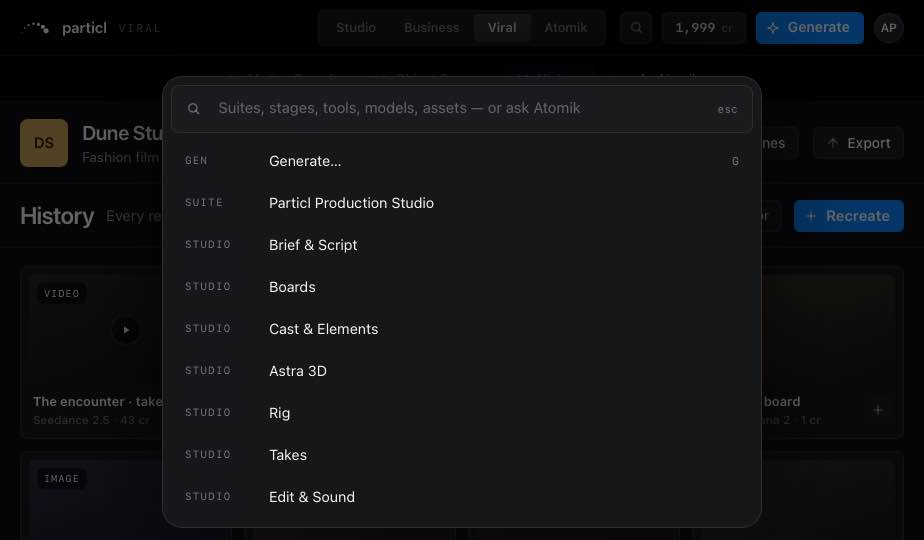
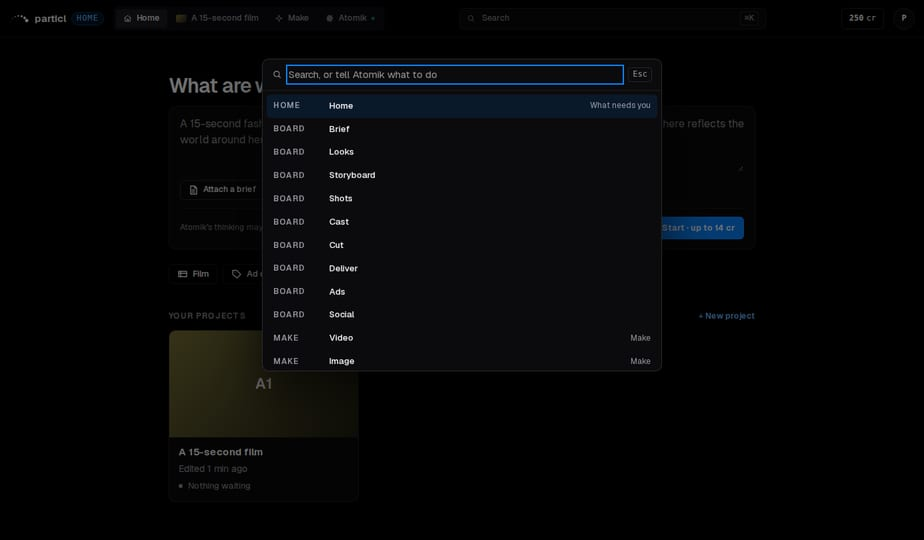
Site: Release 1 screenshots replace the old-design ones
The five product pictures on the public site were captures of the old
shell and carried retired names (Rig, Astra 3D, Subatomik Viral Studio,
Business, Viral, Generate, Workspace) and an old project name. They are
replaced by fresh captures of release/1 on a mock server, with sample
names only ("A 15-second film"): the Studio board with its rail and tool
row, Make with "Seedance 2.5 · 1080p · 5 s · 43 cr", Motion transfer,
the new ⌘K list, and Settings › Plan & credits. The window labels and
alt text say the new names. The four retired files join the guard's
tombstones; the inventory rows for them are gone.

Claude-Session: https://claude.ai/code/session_01XmoywMmMhqwTfHGQyrNfnQ

diff --git a/app/(marketing)/site/_pages/gen/index.tsx b/app/(marketing)/site/_pages/gen/index.tsx
@@ -49,7 +49,7 @@ export default async function GenHome() {
         <Head eyebrow="Make · one composer" title="One composer for video, images and audio."
           lead="Every tool in every suite is a preset that opens it pre-configured; there is never a second interface." />
         <Cols col={420}>
-          <Window path="particl.app / gen" src={shot("gen-composer-blank")} alt="The Make composer" width={924} height={540} />
+          <Window path="particl.si / make" src={shot("make-panel")} alt="Make over the board, with the engine line and its price" width={924} height={540} />
           <Grid col={220}>
             <Stat figure="4–30 s" name="Length by the second" body="Any whole second a video engine accepts. Ratio, resolution and audio clamp when you switch engines." />
             <Stat figure="SHA-256" name="References stay byte-identical" body="No resize, no re-encode, no metadata stripping. The rail shows ✓ BYTE-IDENTICAL when the hash matches." />

diff --git a/components/marketing/SharedBottom.tsx b/components/marketing/SharedBottom.tsx
@@ -56,7 +56,7 @@ function Shell() {
       <Head eyebrow="The board" title="The whole production on one canvas."
         lead="Brief · Looks · Storyboard · Shots · Cast · Cut · Deliver. Atomik plans each step and prices it; a person approves before anything is spent." />
       <Cols col={420}>
-        <Window path="⌘K · search everything" src={shot("palette-cmd-k")} alt="The ⌘K palette" width={924} height={540} />
+        <Window path="⌘K · search, or tell Atomik what to do" src={shot("palette-cmd-k")} alt="⌘K: Home, the board, Make and Atomik" width={924} height={540} />
         <Grid col={200}>
           {SHELL_TILES.map(([tag, name, body]) => <Tile key={tag} tag={tag} name={name} body={body} />)}
         </Grid>

diff --git a/app/(marketing)/site/_pages/viral/index.tsx b/app/(marketing)/site/_pages/viral/index.tsx
@@ -61,7 +61,7 @@ export default function ViralPage() {
             ))}
           </Grid>
           <div style={{ display: "flex", flexDirection: "column", gap: 14, minWidth: 0 }}>
-            <Window path="particl.app / viral / history" src={shot("viral-history")} alt="Viral, History" width={924} height={540} />
+            <Window path="particl.si / make / motion transfer" src={shot("make-motion-transfer")} alt="Motion transfer in Make: one source video and references" width={924} height={540} />
             <Grid col={140} style={{ gap: 10 }}>
               {FACTS.map(([k, v]) => <Fact key={k} k={k} v={v} />)}
             </Grid>

diff --git a/tests/unit/one-design-guard.spec.ts b/tests/unit/one-design-guard.spec.ts
@@ -64,6 +64,11 @@ const TOMBSTONES = [
   "public/marketing/screens/studio-cast.jpg",
   "public/marketing/screens/studio-takes.jpg",
   "public/marketing/screens/workspace-general-enhancer.jpg",
+  /* Old-design site screenshots, replaced by Release 1 captures (7 Oct). */
+  "public/marketing/screens/gen-composer-blank.jpg",
+  "public/marketing/screens/studio-rig-canvas.jpg",
+  "public/marketing/screens/viral-history.jpg",
+  "public/marketing/screens/workspace-plans-credits.jpg",
   /* The three renamed sheets, under their old names. */
   "app/workbench/mobile-hand" + "off.css",
   "app/workbench/mobile-hand" + "off-stages.css",

diff --git a/app/(marketing)/site/_pages/workspace/index.tsx b/app/(marketing)/site/_pages/workspace/index.tsx
@@ -53,7 +53,7 @@ export default async function WorkspacePage() {
         </Grid>
 
         <Grid col={300} style={{ gap: 20 }}>
-          <Window path="particl.app / workspace / plans" src={shot("workspace-plans-credits")} alt="Workspace, Plans and credits: the balance, the plan, credit packs and monthly statements" width={924} height={540} />
+          <Window path="particl.si / settings / plan & credits" src={shot("settings-plan-credits")} alt="Settings, Plan & credits: the balance, this month, Top up and the plan" width={924} height={540} />
         </Grid>
 
         <Grid col={270} style={{ alignItems: "start" }}>

diff --git a/app/(marketing)/site/_pages/studio/index.tsx b/app/(marketing)/site/_pages/studio/index.tsx
@@ -126,7 +126,7 @@ export default function StudioPage() {
           </div>
 
           <div className={styles.aside}>
-            <Window path="particl.app / dune-studies / rig" src={shot("studio-rig-canvas")} alt="The Board, the node graph of a shot" width={924} height={540} />
+            <Window path="particl.si / a-15-second-film / board" src={shot("board-canvas")} alt="The Studio board: the rail of regions, the cards and the tool row" width={924} height={540} />
             <Grid col={220} style={{ gap: 10 }}>
               {ASSETS.map((asset) => (
                 <div key={asset.name} className={styles.asset}>

diff --git a/docs/old-design-inventory.md b/docs/old-design-inventory.md
@@ -237,7 +237,7 @@ Marketing copy that the scanner cannot see: the five marketing screenshots carry
 
 ## 4. Old shells: routes
 
-**The old homepage (owner, decision 41; dated Thu 8 Oct).** `/` signed out today is the Gen page (`app/(marketing)/site/_pages/gen/index.tsx`), its hero prompt (`components/marketing/HeroPrompt.tsx`), its copy, its `.mk-hero*` and `.mk-prompt*` rules in `components/marketing/marketing.css` and its screenshot `public/marketing/screens/gen-composer-blank.jpg`. All of it is deleted in the same step as turning Guest Home on: stream 15's follow-up PR `site/guest-home-on` (stacked on `site/guest-home`) deletes them and makes Guest Home the only `/` for a signed-out visitor; it merges when the owner turns Guest Home on. /pricing and the other `/site/*` pages stay. Target: Thu 8 Oct.
+**The old homepage (owner, decision 41; dated Thu 8 Oct).** `/` signed out today is the Gen page (`app/(marketing)/site/_pages/gen/index.tsx`), its hero prompt (`components/marketing/HeroPrompt.tsx`), its copy, its `.mk-hero*` and `.mk-prompt*` rules in `components/marketing/marketing.css` and its screenshot `public/marketing/screens/make-panel.jpg` (a Release 1 capture since 7 Oct). All of it is deleted in the same step as turning Guest Home on: stream 15's follow-up PR `site/guest-home-on` (stacked on `site/guest-home`) deletes them and makes Guest Home the only `/` for a signed-out visitor; it merges when the owner turns Guest Home on. /pricing and the other `/site/*` pages stay. Target: Thu 8 Oct.
 
 From `docs/old-shells.md`, which this inventory supersedes as the deletion list. Three shells still serve routes: `/workspace`, `/workbench` and the pages under `app/(app)/`; the live `/suites` shell is the 3 October build (`components/graphite/`) that the D0 PRs and stream 1 rebuild. "Imported by" for a route is the Next.js router; the components a route renders are in §6.
 
@@ -1091,11 +1091,6 @@ These stay past the clean slate. Each has a reason and the date it is reviewed a
 
 | Path | Kind | Imported by | Deleting PR or stream | Target |
 |---|---|---|---|---|
-| `public/marketing/screens/gen-composer-blank.jpg` | export: screenshot of the Gen composer | `app/(marketing)/site/_pages/gen/index.tsx` | stream 15: deleted with the homepage by `site/guest-home-on` (decision 41); was: stream 15 step 2 (landing page, after the owner's frames) retakes it from the Make panel | after the new screens merge; owner to confirm date (§9) |
-| `public/marketing/screens/studio-rig-canvas.jpg` | export: screenshot of the Rig canvas (path label "particl.app / dune-studies / rig": a placeholder name too) | `app/(marketing)/site/_pages/studio/index.tsx` | stream 15 step 2: retake from the board | after the new screens merge; owner to confirm date (§9) |
-| `public/marketing/screens/viral-history.jpg` | export: screenshot of Viral History | `app/(marketing)/site/_pages/viral/index.tsx` | stream 15 step 2: retake from the Social board | after the new screens merge; owner to confirm date (§9) |
-| `public/marketing/screens/workspace-plans-credits.jpg` | export: screenshot of Workspace > Plans & credits | `app/(marketing)/site/_pages/workspace/index.tsx` | stream 15 step 2: retake from Settings > Plan & credits | after the new screens merge; owner to confirm date (§9) |
-| `public/marketing/screens/palette-cmd-k.jpg` | export: screenshot of the old ⌘K palette | `components/marketing/SharedBottom.tsx` | stream 15 step 2: retake from #513's palette | after the new screens merge; owner to confirm date (§9) |
 
 The marketing pictures are old-design exports that depend on the new screens existing, so they cannot go before the demo. Until they are retaken the marketing pages name the old interface inside the picture; stream 15 can drop the five `<Window>` blocks instead if the owner prefers no picture to an old one.
 
